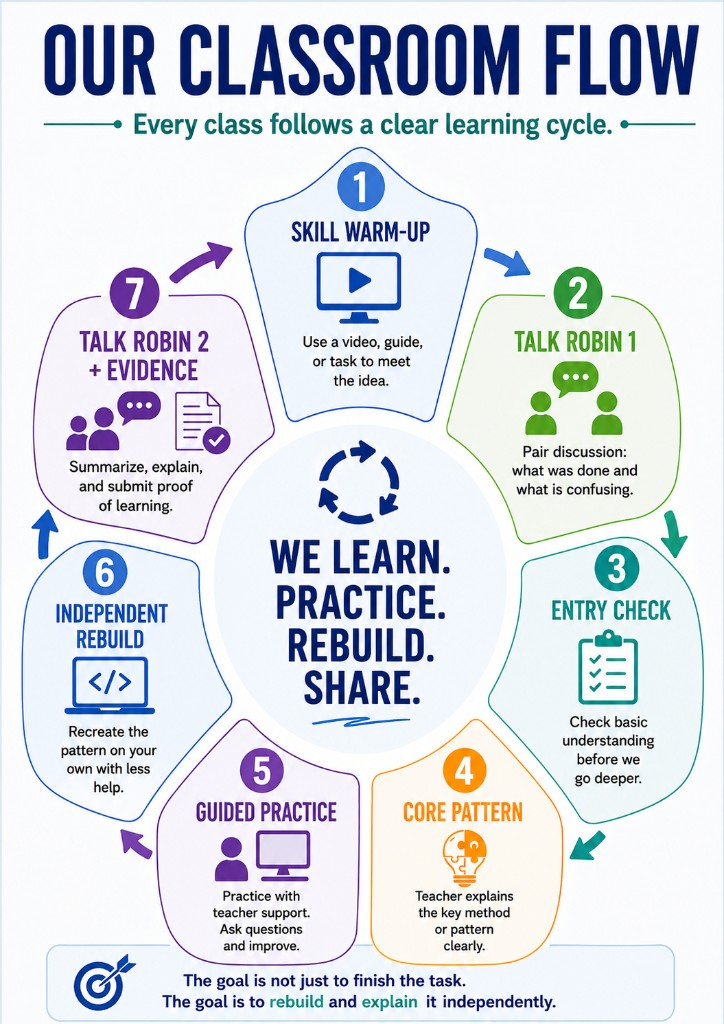
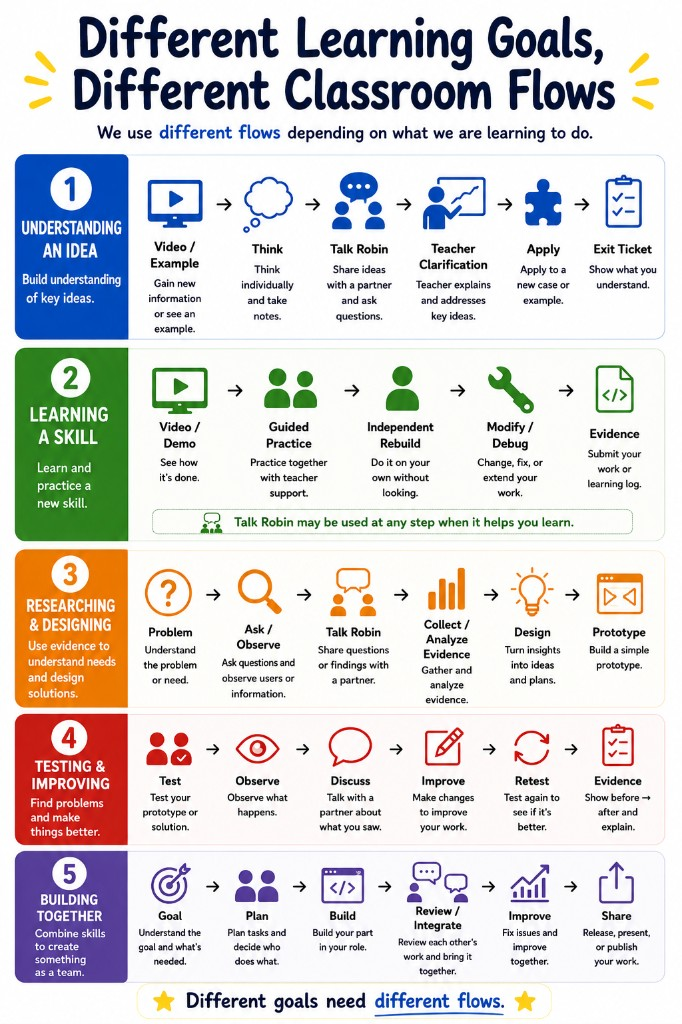
docs(posters): replace classroom flow with five-goal poster
Add Different Learning Goals, Different Classroom Flows poster and sync
README plus canonical flow docs to reference the new five-flow layout.

diff --git a/08_Public_Documents/posters/README.md b/08_Public_Documents/posters/README.md
@@ -5,7 +5,7 @@ Official classroom posters for **Full-Stack Web and AI Application Development**
 | Poster | File | Use |
 |---|---|---|
 | **Full-Stack Course Overview** | [full-stack-course-overview.png](full-stack-course-overview.png) | Course journey, AI literacy strand, and student outcomes |
-| **Our Classroom Flow** | [classroom-flow.png](classroom-flow.png) | Every class session — learning cycle |
+| **Different Learning Goals, Different Classroom Flows** | [classroom-flow.png](classroom-flow.png) | Five goal-specific flows — pick the flow that matches the lesson |
 | **Mastery Level** | [mastery-level.png](mastery-level.png) | Expectations — rebuild, explain, debug, own your work |
 | **CS Competition Pathways** | [cs-competition-pathways.png](cs-competition-pathways.png) | Optional enrichment — competitions and challenges beyond class |
 | **AI Use Policy** | [ai-use-policy.png](ai-use-policy.png) | Use AI as a learning tool, not a shortcut |
@@ -24,19 +24,19 @@ outcomes.
 
 ## Classroom Flow Poster
 
-**Message:** We learn. Practice. Rebuild. Share.
+**Message:** Different goals need different flows.
 
-The poster shows the learning cycle at a high level. **Class mission files** use the detailed **90-minute seven-block** flow:
+The poster shows **five goal-specific classroom flows**. Choose the row that matches what students are learning to do:
 
-1. Entry Point Check (0–10 min)
-2. Individual Learning (10–25 min) — **one required resource**
-3. Talk Round 1 (25–40 min)
-4. Entry Points Check / Teacher Diagnosis (40–55 min)
-5. Guided Practice / Mission Task (55–75 min)
-6. Exit Check (75–85 min)
-7. Submission (85–90 min)
+| Flow | When to use |
+|---|---|
+| **Understanding an Idea** | Build understanding of key ideas (video → think → Talk Robin → teacher clarification → apply → exit ticket) |
+| **Learning a Skill** | Learn and practice a new skill (video/demo → guided practice → independent rebuild → modify/debug → evidence) |
+| **Researching & Designing** | Use evidence to understand needs and design solutions (problem → ask/observe → Talk Robin → collect/analyze → design → prototype) |
+| **Testing & Improving** | Find problems and make things better (test → observe → discuss → improve → retest → evidence) |
+| **Building Together** | Combine skills to create something as a team (goal → plan → build → review/integrate → improve → share) |
 
-**In class mission guides**, the **90-minute** block uses seven timed sections (see `02_Class_Missions/shared/classroom-flow.md`). Each lesson lists **one required resource**. Teacher daily lesson plans may use different timing notes.
+**Class mission guides** expand **Learning a Skill** into the canonical **45-minute seven-block** structure (Skill Warm-up → Talk Robin 1 → Entry Check → Core Pattern → Guided Practice → Independent Rebuild → Talk Robin 2 + Evidence). See `02_Class_Missions/shared/classroom-flow.md`. Each lesson lists **one required resource**.
 
 ---
 

diff --git a/09_Teacher_Planning/Daily_Lesson_Plans/shared/classroom-learning-workflow.md b/09_Teacher_Planning/Daily_Lesson_Plans/shared/classroom-learning-workflow.md
@@ -1,6 +1,6 @@
 # Classroom Learning Workflow
 
-Every daily lesson follows the **Our Classroom Flow** poster. **Each lesson is 45 minutes.**
+Every daily lesson follows the **Different Learning Goals, Different Classroom Flows** poster. **Each lesson is 45 minutes.**
 
 Use **only** these block names:
 
@@ -9,7 +9,7 @@ Skill Warm-up → Talk Robin 1 → Entry Check → Core Pattern
 → Guided Practice → Independent Rebuild → Talk Robin 2 + Evidence
 ```
 
-![Our Classroom Flow](../../../08_Public_Documents/posters/classroom-flow.png)
+![Different Learning Goals, Different Classroom Flows](../../../08_Public_Documents/posters/classroom-flow.png)
 
 Canonical file: [02_Class_Missions/shared/classroom-flow.md](../../../02_Class_Missions/shared/classroom-flow.md)
 

diff --git a/02_Class_Missions/shared/classroom-flow.md b/02_Class_Missions/shared/classroom-flow.md
@@ -7,9 +7,9 @@ Skill Warm-up → Talk Robin 1 → Entry Check → Core Pattern
 → Guided Practice → Independent Rebuild → Talk Robin 2 + Evidence
 ```
 
-*We learn. Practice. Rebuild. Share.*
+*Different goals need different flows.*
 
-Poster: `08_Public_Documents/posters/classroom-flow.png`
+Poster: `08_Public_Documents/posters/classroom-flow.png` — **Learning a Skill** row; this file is the detailed 45-minute seven-block expansion of that row.
 
 ## The Seven Blocks (45 minutes)
 
